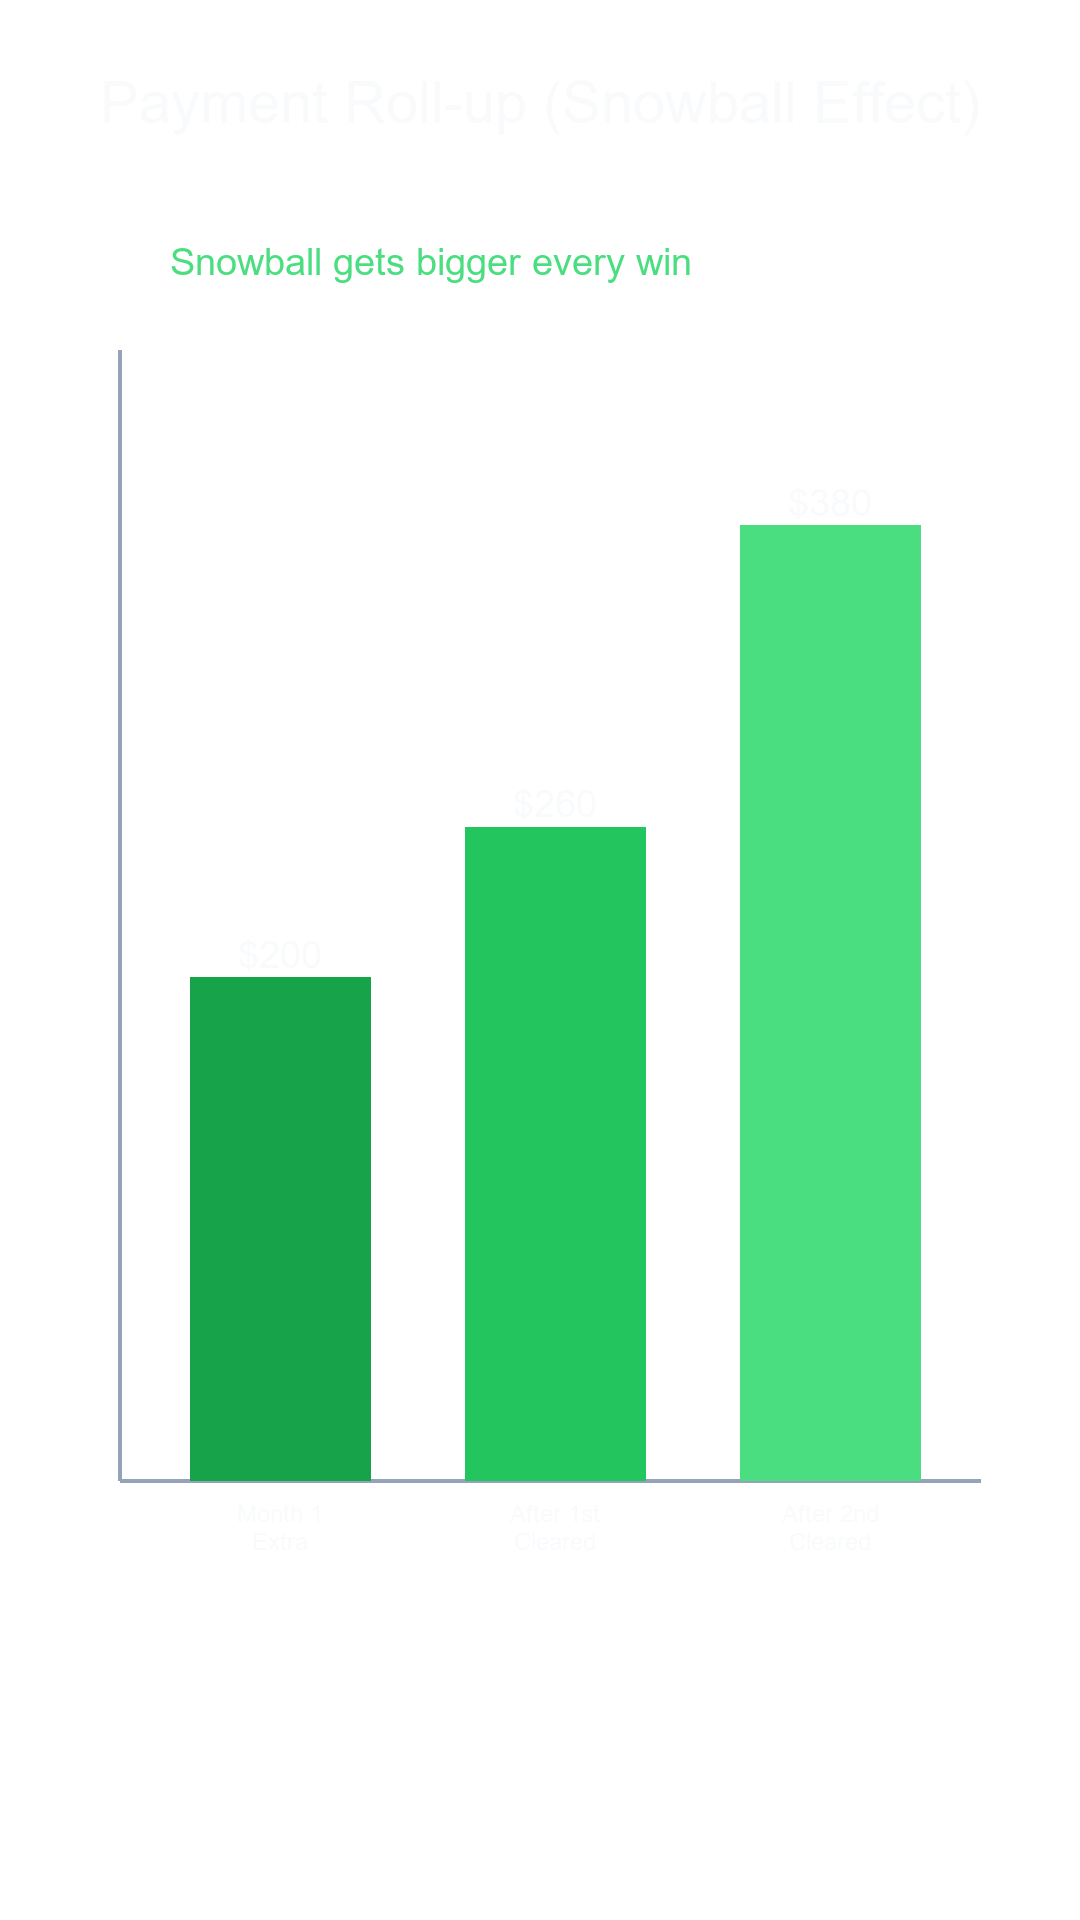
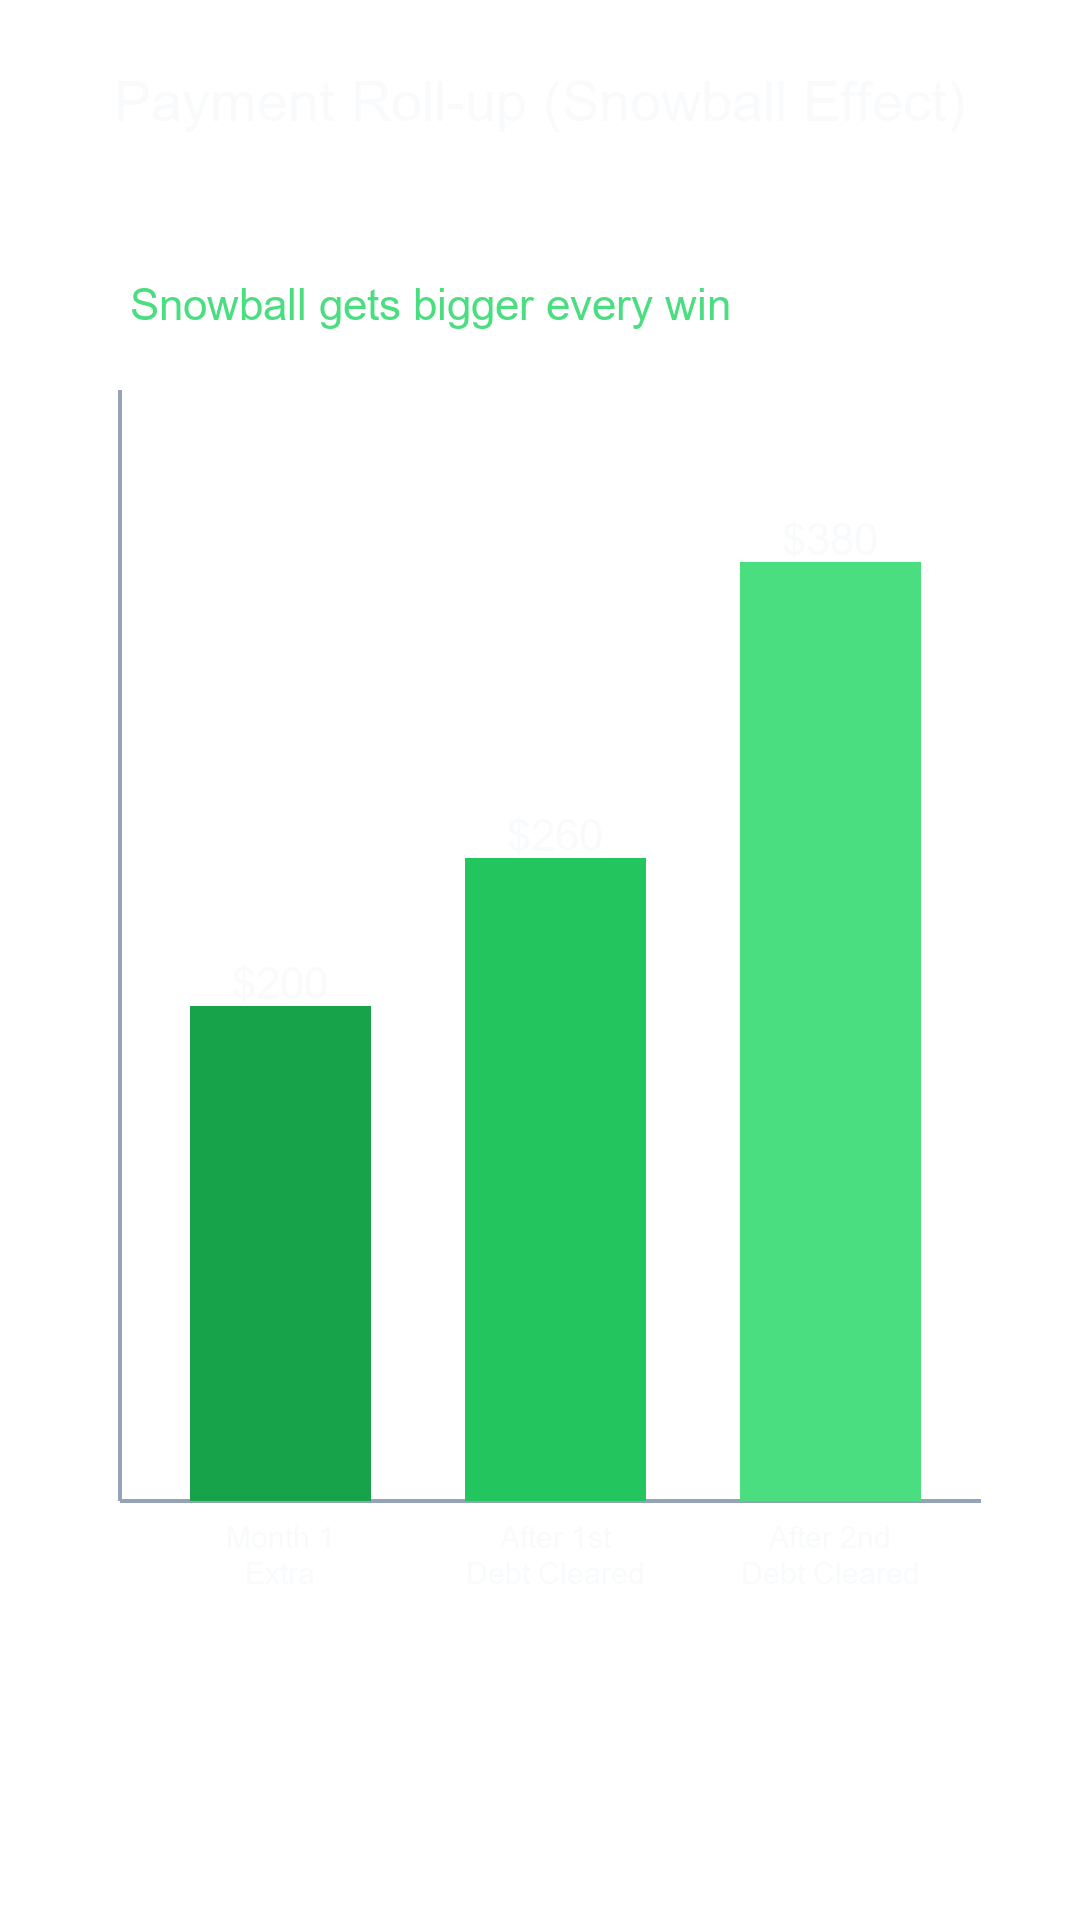
Polish FFWM graph assets for mobile readability and fix pie title overlap

diff --git a/scripts/generate_ffwm_graphs_pil.py b/scripts/generate_ffwm_graphs_pil.py
@@ -1,160 +1,201 @@
 from PIL import Image, ImageDraw, ImageFont
-import os, math
+import os
 
 OUT = r"C:/Users/klaus/.openclaw/workspace-main/assets/ffwm_graphs"
 os.makedirs(OUT, exist_ok=True)
-W,H = 1080,1920
+W, H = 1080, 1920
 
-GREEN=(34,197,94,255)
-GREEN2=(22,163,74,255)
-GREEN3=(74,222,128,255)
-WHITE=(248,250,252,255)
-GRAY=(148,163,184,255)
-SLATE=(51,65,85,255)
-SLATE2=(71,85,105,255)
+GREEN = (34, 197, 94, 255)
+GREEN2 = (22, 163, 74, 255)
+GREEN3 = (74, 222, 128, 255)
+WHITE = (248, 250, 252, 255)
+GRAY = (148, 163, 184, 255)
+SLATE = (51, 65, 85, 255)
+SLATE2 = (71, 85, 105, 255)
 
-font_title = ImageFont.truetype("arial.ttf", 58)
-font_sub = ImageFont.truetype("arial.ttf", 38)
-font_body = ImageFont.truetype("arial.ttf", 30)
-font_small = ImageFont.truetype("arial.ttf", 24)
+# V2: larger text for mobile readability
+font_title = ImageFont.truetype("arial.ttf", 56)
+font_sub = ImageFont.truetype("arial.ttf", 44)
+font_body = ImageFont.truetype("arial.ttf", 34)
+font_small = ImageFont.truetype("arial.ttf", 30)
 
 def new_canvas():
-    return Image.new("RGBA", (W,H), (0,0,0,0))
+    return Image.new("RGBA", (W, H), (0, 0, 0, 0))
 
 def centered(draw, y, text, font, fill=WHITE):
-    tw, th = draw.textbbox((0,0), text, font=font)[2:]
-    draw.text(((W-tw)//2, y), text, font=font, fill=fill)
+    bbox = draw.textbbox((0, 0), text, font=font)
+    tw = bbox[2] - bbox[0]
+    draw.text(((W - tw) // 2, y), text, font=font, fill=fill)
 
 def save(img, name):
     img.save(os.path.join(OUT, name), "PNG")
 
-# 1 Bar chart
-img = new_canvas(); d=ImageDraw.Draw(img)
-centered(d, 70, "Debt Balances (Smallest  Largest)", font_title)
-left,right,top,bottom = 120,980,320,1480
-# axes
-d.line((left,bottom,left,top), fill=GRAY, width=4)
-d.line((left,bottom,right,bottom), fill=GRAY, width=4)
-vals=[500,1200,3000,8000]
-labels=["$500","$1,200","$3,000","$8,000"]
-maxv=9000
-bar_w=130; gap=65
-x=left+45
-for i,v in enumerate(vals):
-    h=(v/maxv)*(bottom-top)
-    y=bottom-h
-    color=GREEN if i==0 else SLATE
-    d.rectangle((x,y,x+bar_w,bottom), fill=color)
-    d.text((x+20,bottom+18), labels[i], font=font_small, fill=WHITE)
-    t=f"${v:,}"; tw=d.textlength(t,font=font_small)
-    d.text((x+(bar_w-tw)/2,y-36), t, font=font_small, fill=WHITE)
-    x += bar_w+gap
-# arrow-ish annotation
-d.line((300,760,210,960), fill=GREEN, width=6)
-d.polygon([(205,960),(220,948),(220,972)], fill=GREEN)
-d.text((315,700), "Attack this first", font=font_sub, fill=GREEN)
+# 1) Debt balances bar chart
+img = new_canvas(); d = ImageDraw.Draw(img)
+centered(d, 70, "Debt Balances (Smallest → Largest)", font_title)
+left, right, top, bottom = 110, 980, 360, 1500
+
+d.line((left, bottom, left, top), fill=GRAY, width=4)
+d.line((left, bottom, right, bottom), fill=GRAY, width=4)
+
+vals = [500, 1200, 3000, 8000]
+labels = ["$500", "$1,200", "$3,000", "$8,000"]
+maxv = 9000
+bar_w, gap = 135, 70
+x = left + 35
+
+for i, v in enumerate(vals):
+    h = (v / maxv) * (bottom - top)
+    y = bottom - h
+    color = GREEN if i == 0 else SLATE
+    d.rectangle((x, y, x + bar_w, bottom), fill=color)
+
+    t = f"${v:,}"
+    tw = d.textlength(t, font=font_small)
+    d.text((x + (bar_w - tw) / 2, y - 44), t, font=font_small, fill=WHITE)
+
+    tw = d.textlength(labels[i], font=font_small)
+    d.text((x + (bar_w - tw) / 2, bottom + 20), labels[i], font=font_small, fill=WHITE)
+    x += bar_w + gap
+
+# annotation
+d.line((330, 780, 220, 980), fill=GREEN, width=7)
+d.polygon([(212, 980), (228, 966), (230, 990)], fill=GREEN)
+d.text((350, 720), "Attack this first", font=font_sub, fill=GREEN)
 save(img, "01_debt_balances_bar.png")
 
-# 2 Momentum line
-img = new_canvas(); d=ImageDraw.Draw(img)
+# 2) Momentum line chart
+img = new_canvas(); d = ImageDraw.Draw(img)
 centered(d, 70, "Momentum: Wins Over Time", font_title)
-left,right,top,bottom = 120,980,320,1480
-d.line((left,bottom,left,top), fill=GRAY, width=4)
-d.line((left,bottom,right,bottom), fill=GRAY, width=4)
-for i in range(0,7):
-    y = bottom - (i/6)*(bottom-top)
-    d.line((left,y,right,y), fill=(51,65,85,90), width=1)
-    d.text((70,y-12), str(i), font=font_small, fill=WHITE)
-months=list(range(1,13)); debts=[0,1,2,2,3,3,4,4,4,5,5,6]
-pts=[]
-for m,val in zip(months,debts):
-    x=left + (m-1)/(11)*(right-left)
-    y=bottom - (val/6)*(bottom-top)
-    pts.append((x,y))
-for i in range(len(pts)-1):
-    d.line((pts[i],pts[i+1]), fill=GREEN, width=6)
-for x,y in pts:
-    d.ellipse((x-8,y-8,x+8,y+8), fill=GREEN)
-d.rectangle((left+10,top+10,left+250,top+120), fill=(74,222,128,40), outline=GREEN3, width=2)
-d.text((left+20,top+25), "Early jump\n(12 debts gone)", font=font_small, fill=GREEN3)
-centered(d, 1530, "Months", font_sub)
-d.text((20,860), "Debts\nPaid", font=font_small, fill=WHITE)
+left, right, top, bottom = 120, 980, 360, 1490
+
+d.line((left, bottom, left, top), fill=GRAY, width=4)
+d.line((left, bottom, right, bottom), fill=GRAY, width=4)
+
+for i in range(0, 7):
+    y = bottom - (i / 6) * (bottom - top)
+    d.line((left, y, right, y), fill=(51, 65, 85, 90), width=1)
+    d.text((68, y - 14), str(i), font=font_small, fill=WHITE)
+
+months = list(range(1, 13))
+debts = [0, 1, 2, 2, 3, 3, 4, 4, 4, 5, 5, 6]
+pts = []
+for m, val in zip(months, debts):
+    x = left + (m - 1) / 11 * (right - left)
+    y = bottom - (val / 6) * (bottom - top)
+    pts.append((x, y))
+
+for i in range(len(pts) - 1):
+    d.line((pts[i], pts[i + 1]), fill=GREEN, width=7)
+for x, y in pts:
+    d.ellipse((x - 9, y - 9, x + 9, y + 9), fill=GREEN)
+
+# early jump callout
+d.rounded_rectangle((left + 10, top + 10, left + 325, top + 150), radius=16, fill=(74, 222, 128, 35), outline=GREEN3, width=3)
+d.text((left + 25, top + 30), "Early jump\n(1–2 debts gone)", font=font_small, fill=GREEN3)
+centered(d, 1535, "Months", font_sub)
+d.text((15, 860), "Debts\nPaid", font=font_small, fill=WHITE)
 save(img, "02_momentum_line.png")
 
-# 3 Roll-up bars
-img = new_canvas(); d=ImageDraw.Draw(img)
+# 3) Payment roll-up bars
+img = new_canvas(); d = ImageDraw.Draw(img)
 centered(d, 70, "Payment Roll-up (Snowball Effect)", font_title)
-left,right,top,bottom = 120,980,350,1480
-d.line((left,bottom,left,top), fill=GRAY, width=4)
-d.line((left,bottom,right,bottom), fill=GRAY, width=4)
-vals=[200,260,380]
-labs=["Month 1\nExtra","After 1st\nCleared","After 2nd\nCleared"]
-cols=[GREEN2,GREEN,GREEN3]
-maxv=450
-bar_w=180; gap=95
-x=left+70
-for v,lab,c in zip(vals,labs,cols):
-    h=(v/maxv)*(bottom-top)
-    y=bottom-h
-    d.rectangle((x,y,x+bar_w,bottom), fill=c)
-    t=f"${v}"; tw=d.textlength(t,font=font_sub)
-    d.text((x+(bar_w-tw)/2,y-45), t, font=font_sub, fill=WHITE)
-    for li,j in zip(lab.split("\n"), range(2)):
-        tw=d.textlength(li,font=font_small)
-        d.text((x+(bar_w-tw)/2,bottom+20+j*28), li, font=font_small, fill=WHITE)
-    x+=bar_w+gap
-d.text((170,240), "Snowball gets bigger every win", font=font_sub, fill=GREEN3)
+left, right, top, bottom = 120, 980, 390, 1500
+
+d.line((left, bottom, left, top), fill=GRAY, width=4)
+d.line((left, bottom, right, bottom), fill=GRAY, width=4)
+
+vals = [200, 260, 380]
+labs = ["Month 1\nExtra", "After 1st\nDebt Cleared", "After 2nd\nDebt Cleared"]
+cols = [GREEN2, GREEN, GREEN3]
+maxv = 450
+bar_w, gap = 180, 95
+x = left + 70
+
+for v, lab, c in zip(vals, labs, cols):
+    h = (v / maxv) * (bottom - top)
+    y = bottom - h
+    d.rectangle((x, y, x + bar_w, bottom), fill=c)
+
+    t = f"${v}"
+    tw = d.textlength(t, font=font_sub)
+    d.text((x + (bar_w - tw) / 2, y - 48), t, font=font_sub, fill=WHITE)
+
+    l1, l2 = lab.split("\n")
+    tw = d.textlength(l1, font=font_small)
+    d.text((x + (bar_w - tw) / 2, bottom + 20), l1, font=font_small, fill=WHITE)
+    tw = d.textlength(l2, font=font_small)
+    d.text((x + (bar_w - tw) / 2, bottom + 56), l2, font=font_small, fill=WHITE)
+    x += bar_w + gap
+
+d.text((130, 280), "Snowball gets bigger every win", font=font_sub, fill=GREEN3)
 save(img, "03_payment_rollup_bars.png")
 
-# 4 behavior vs math
-img = new_canvas(); d=ImageDraw.Draw(img)
+# 4) Behavior vs math split bars
+img = new_canvas(); d = ImageDraw.Draw(img)
 centered(d, 80, "Behavior vs Math", font_title)
-left,right,top,bottom = 170,930,360,1480
-d.line((left,bottom,left,top), fill=GRAY, width=4)
-d.line((left,bottom,right,bottom), fill=GRAY, width=4)
-vals=[78,92]
-labs=["Best math\n(Avalanche)","Best follow-through\n(Snowball)"]
-cols=[SLATE2,GREEN]
-maxv=100
-bar_w=230
-x=240
-for v,lab,c in zip(vals,labs,cols):
-    h=(v/maxv)*(bottom-top)
-    y=bottom-h
-    d.rectangle((x,y,x+bar_w,bottom), fill=c)
-    t=f"{v}%"; tw=d.textlength(t,font=font_sub)
-    d.text((x+(bar_w-tw)/2,y-45), t, font=font_sub, fill=WHITE)
-    a,b=lab.split("\n")
-    tw=d.textlength(a,font=font_small); d.text((x+(bar_w-tw)/2,bottom+20),a,font=font_small,fill=WHITE)
-    tw=d.textlength(b,font=font_small); d.text((x+(bar_w-tw)/2,bottom+50),b,font=font_small,fill=WHITE)
-    x += 330
+left, right, top, bottom = 170, 930, 380, 1500
+
+d.line((left, bottom, left, top), fill=GRAY, width=4)
+d.line((left, bottom, right, bottom), fill=GRAY, width=4)
+
+vals = [78, 92]
+labs = ["Best math\n(Avalanche)", "Best follow-through\n(Snowball)"]
+cols = [SLATE2, GREEN]
+maxv = 100
+bar_w = 235
+x = 235
+
+for v, lab, c in zip(vals, labs, cols):
+    h = (v / maxv) * (bottom - top)
+    y = bottom - h
+    d.rectangle((x, y, x + bar_w, bottom), fill=c)
+
+    t = f"{v}%"
+    tw = d.textlength(t, font=font_sub)
+    d.text((x + (bar_w - tw) / 2, y - 50), t, font=font_sub, fill=WHITE)
+
+    a, b = lab.split("\n")
+    tw = d.textlength(a, font=font_small)
+    d.text((x + (bar_w - tw) / 2, bottom + 20), a, font=font_small, fill=WHITE)
+    tw = d.textlength(b, font=font_small)
+    d.text((x + (bar_w - tw) / 2, bottom + 56), b, font=font_small, fill=WHITE)
+    x += 335
+
 save(img, "04_behavior_vs_math_bars.png")
 
-# 5 before after pie
-img = new_canvas(); d=ImageDraw.Draw(img)
-centered(d, 80, "Cash Flow Shift", font_title)
+# 5) Before/after pie chart (fixed overlap)
+img = new_canvas(); d = ImageDraw.Draw(img)
+centered(d, 70, "Cash Flow Shift", font_title)
 
-def pie(cx,cy,r,vals,cols):
-    total=sum(vals); start=110
-    for v,c in zip(vals,cols):
-        end=start+360*v/total
-        d.pieslice((cx-r,cy-r,cx+r,cy+r), start, end, fill=c)
-        start=end
+def pie(cx, cy, r, vals, cols):
+    total = sum(vals)
+    start = 110
+    for v, c in zip(vals, cols):
+        end = start + 360 * v / total
+        d.pieslice((cx - r, cy - r, cx + r, cy + r), start, end, fill=c)
+        start = end
 
-cols=[SLATE, (100,116,139,255), GREEN, (148,163,184,255)]
-before=[55,20,15,10]; after=[25,30,25,20]
-pie(330,760,220,before,cols)
-pie(750,760,220,after,cols)
-centered(d, 1020, "Debt-free creates margin", font_sub, fill=GREEN3)
-d.text((250,1010), "Before", font=font_sub, fill=WHITE)
-d.text((690,1010), "After", font=font_sub, fill=WHITE)
-legend=["Debt Payments","Needs","Savings/Investing","Wants"]
-ly=1240
-for i,(name,c) in enumerate(zip(legend,cols)):
-    x=150 + (i%2)*420
-    y=ly + (i//2)*60
-    d.rectangle((x,y,x+26,y+26), fill=c)
-    d.text((x+40,y-2), name, font=font_small, fill=WHITE)
+cols = [SLATE, (100, 116, 139, 255), GREEN, (148, 163, 184, 255)]
+before = [55, 20, 15, 10]
+after = [25, 30, 25, 20]
+
+# move pies down and labels above each pie to avoid overlap
+d.text((245, 320), "Before", font=font_sub, fill=WHITE)
+d.text((700, 320), "After", font=font_sub, fill=WHITE)
+pie(330, 780, 220, before, cols)
+pie(750, 780, 220, after, cols)
+
+centered(d, 1080, "Debt-free creates margin", font_sub, fill=GREEN3)
+
+legend = ["Debt Payments", "Needs", "Savings/Investing", "Wants"]
+ly = 1250
+for i, (name, c) in enumerate(zip(legend, cols)):
+    x = 120 + (i % 2) * 450
+    y = ly + (i // 2) * 72
+    d.rectangle((x, y, x + 30, y + 30), fill=c)
+    d.text((x + 42, y - 1), name, font=font_small, fill=WHITE)
+
 save(img, "05_before_after_cashflow_pie.png")
 
 print("Created:")
